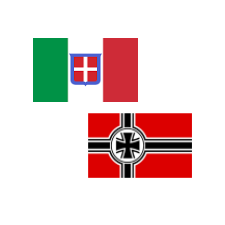
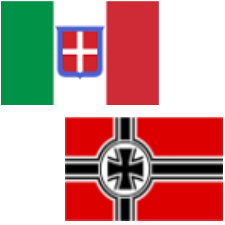
turn player view, admin view

diff --git a/src/views/adminReinforcementsView.js b/src/views/adminReinforcementsView.js
@@ -16,9 +16,25 @@ var AdminReinforcementsView = React.createClass({
     getInitialState() {
         return {
             die1: 1,
-            die2: 1
+            die2: 1,
+            x: 0,
+            y: 0,
+            width: 0,
+            height: 0,
+            viewHeight: 100
         };
     },
+    onLayout(e) {
+        if (/*this.state.width != e.nativeEvent.layout.width ||*/
+            this.state.height != e.nativeEvent.layout.height) {
+            this.setState({
+                x: e.nativeEvent.layout.x,
+                y: e.nativeEvent.layout.y,
+                width: e.nativeEvent.layout.width,
+                height: e.nativeEvent.layout.height
+            });
+        }
+    },            
     onDiceRoll(d) {
         this.resolve(d[0].value, d[1].value);
     },
@@ -31,28 +47,31 @@ var AdminReinforcementsView = React.createClass({
         this.props.setReinforcements(this.props.player, Reinforcements.find(this.props.turn, this.props.reinforcements[this.props.player], die1, die2));
     },
     render() {
-        let iconwidth = /*this.state.width || */96;
-        let iconheight = /*this.state.height || */88;    
+        let iconwidth = this.state.width;// || */96;
+        let iconheight = this.state.height;// || */88;    
         let player = this.props.reinforcements[this.props.player];
         let playerreinforcements = this.props[this.props.player];
         
         return (            
-            <View style={{flex: 1, paddingTop: 4}}>
+            <View style={{flex: 2, paddingTop: 4}}>
                 <Text style={{fontSize: Style.Font.medium(),fontWeight: 'bold',backgroundColor: 'silver', textAlign: 'left', paddingLeft:10}}>Variable Reinforcements</Text>
                 <View style={{flex: 1, flexDirection: 'row', alignItems: 'center', paddingTop: 4}}>
-                    <View style={{flex: 3, flexDirection: 'row', alignItems: 'center'}}>
-                        <View style={{flex: 2, justifyContent:'center', alignItems:'center'}}>
-                            <Image
-                                style={{width: iconwidth, height: iconheight, resizeMode: 'contain'}}
-                                source={Icons[player.icon.toLowerCase()]} />
-                        </View>
-                        <View style={{flex: 3, alignItems: 'center'}}>
-                            <Text style={{marginLeft: 10, fontSize: Style.Font.mediumlarge(), fontWeight: 'bold'}}>{playerreinforcements}</Text>
+                    <View style={{flex: 3, justifyContent:'flex-start', alignItems:'center'}} onLayout={this.onLayout}>
+                        <View style={{flex: 1, flexDirection: 'row', alignItems: 'center'}}>
+                            <View style={{flex: 2, justifyContent:'center', alignItems:'center'}}>
+                                <Image
+                                    style={{width: iconwidth, height: iconheight, resizeMode: 'contain'}}
+                                    source={Icons[player.icon.toLowerCase()]} />
+                            </View>
+                            <View style={{flex: 3, alignItems: 'center'}}>
+                                <Text style={{marginLeft: 10, fontSize: Style.Font.mediumlarge(), fontWeight: 'bold'}}>{playerreinforcements}</Text>
+                            </View>
                         </View>
                     </View>
                     <View style={{flex: 2, marginRight: 5}}>
                         <DiceRoll dice={this.dice} values={[this.state.die1,this.state.die2]}
                             onRoll={this.onDiceRoll} onDie={this.onDieChanged}/>
+                        <View style={{flex:1}} />
                     </View>
                 </View>                
             </View>

diff --git a/src/views/adminSupplyView.js b/src/views/adminSupplyView.js
@@ -16,9 +16,25 @@ var AdminSupplyView = React.createClass({
     getInitialState() {
         return {
             die1: 1,
-            die2: 1
+            die2: 1,
+            x: 0,
+            y: 0,
+            width: 0,
+            height: 0,
+            viewHeight: 100
         };
     },
+    onLayout(e) {
+        if (/*this.state.width != e.nativeEvent.layout.width ||*/
+            this.state.height != e.nativeEvent.layout.height) {
+            this.setState({
+                x: e.nativeEvent.layout.x,
+                y: e.nativeEvent.layout.y,
+                width: e.nativeEvent.layout.width,
+                height: e.nativeEvent.layout.height
+            });
+        }
+    },                
     onDiceRoll(d) {
         this.resolve(d[0].value, d[1].value);
     },
@@ -31,28 +47,31 @@ var AdminSupplyView = React.createClass({
         this.props.setSupply(this.props.player, Supply.find(this.props.turn, this.props.supply[this.props.player], die1, die2));
     },
     render() {
-        let iconwidth = /*this.state.width || */96;
-        let iconheight = /*this.state.height || */88;    
+        let iconwidth = this.state.width;// || */Style.Scaling.scale(96);
+        let iconheight = this.state.height;// || */Style.Scaling.scale(88);
         let player = this.props.supply[this.props.player];
         let playersupply = this.props[this.props.player];
         
         return (            
-            <View style={{flex: 1, paddingTop: 4}}>
+            <View style={{flex: 2, paddingTop: 4}}>
                 <Text style={{fontSize: Style.Font.medium(),fontWeight: 'bold',backgroundColor: 'silver', textAlign: 'left', paddingLeft:10}}>Supply</Text>                
                 <View style={{flex: 1, flexDirection: 'row', alignItems: 'center', paddingTop: 4}}>
-                    <View style={{flex: 3, flexDirection: 'row', alignItems: 'center'}}>
-                        <View style={{flex: 2, justifyContent:'center', alignItems:'center'}}>
-                            <Image
-                                style={{width: iconwidth, height: iconheight, resizeMode: 'contain'}}
-                                source={Icons[player.icon.toLowerCase()]} />
-                        </View>
-                        <View style={{flex: 3, alignItems: 'center'}}>
-                            <Text style={{marginLeft: 10, fontSize: Style.Font.mediumlarge(), fontWeight: 'bold'}}>{playersupply}</Text>
+                    <View style={{flex: 3, justifyContent:'flex-start', alignItems:'center'}} onLayout={this.onLayout}>
+                        <View style={{flex: 1, flexDirection: 'row', alignItems: 'center'}}>
+                            <View style={{flex: 2, justifyContent:'center', alignItems:'center'}}>
+                                <Image
+                                    style={{width: iconwidth, height: iconheight, resizeMode: 'contain'}}
+                                    source={Icons[player.icon.toLowerCase()]} />
+                            </View>
+                            <View style={{flex: 3, alignItems: 'center'}}>
+                                <Text style={{marginLeft: 10, fontSize: Style.Font.mediumlarge(), fontWeight: 'bold'}}>{playersupply}</Text>
+                            </View>
                         </View>
                     </View>
                     <View style={{flex: 2, marginRight: 5}}>
                         <DiceRoll dice={this.dice} values={[this.state.die1,this.state.die2]}
                             onRoll={this.onDiceRoll} onDie={this.onDieChanged}/>
+                        <View style={{flex:1}} />
                     </View>
                 </View>                
             </View>

diff --git a/src/views/adminInitiativeView.js b/src/views/adminInitiativeView.js
@@ -1,5 +1,5 @@
 import React from 'react';
-import { View, Text } from 'react-native';
+import { View, Text, Image, TouchableOpacity } from 'react-native';
 import { connect } from 'react-redux';
 import {Style,IconButton} from 'react-native-nub';
 import {DiceRoll} from 'react-native-dice';
@@ -27,7 +27,7 @@ var AdminInitiativeView = React.createClass({
         };
     },
     onLayout(e) {
-        if (this.state.width != e.nativeEvent.layout.width ||
+        if (/*this.state.width != e.nativeEvent.layout.width ||*/
             this.state.height != e.nativeEvent.layout.height) {
             this.setState({
                 x: e.nativeEvent.layout.x,
@@ -53,19 +53,22 @@ var AdminInitiativeView = React.createClass({
     },
     render() {
         let player = this.props.player ? this.props.player : {icon: 'tie'};
-        let iconwidth = /*this.state.width || */88;
-        let iconheight = /*this.state.height || */82;        
+        let iconwidth = this.state.width;// || */Style.Scaling.scale(88);
+        let iconheight = this.state.height;// || */Style.Scaling.scale(82);
         return (
-            <View style={{flex: 1, paddingTop: 4}}>
+            <View style={{flex: 2, paddingTop: 4}}>
                 <Text style={{fontSize: Style.Font.medium(),fontWeight: 'bold',backgroundColor: 'silver', textAlign: 'left', paddingLeft:10}}>Initiative</Text>
                 <View style={{flex: 1,flexDirection: 'row', paddingTop: 4}}>
-                    <View style={{flex: 3, justifyContent:'center', alignItems:'center'}}>
-                        <IconButton image={Icons[player.icon.toLowerCase()]} width={iconwidth} height={iconheight} resizeMode={'contain'} onPress={this.onNextPlayer}/>
+                    <View style={{flex: 3, justifyContent:'flex-start', alignItems:'center'}} onLayout={this.onLayout}>
+                        <TouchableOpacity onPress={this.onNextPlayer}>
+                            <Image style={{width: iconwidth,height: iconheight,resizeMode: 'contain'}} source={Icons[player.icon.toLowerCase()]} />
+                        </TouchableOpacity>                        
                     </View>
                     <View style={{flex: 2, marginRight: 5}}>
                         <DiceRoll dice={this.dice} values={[this.state.die1,this.state.die2]} onRoll={this.onDiceRoll} onDie={this.onDieChanged}/>
+                        <View style={{flex:1}} />
                     </View>
-                </View>
+                </View>                
             </View>
         );        
     }

diff --git a/src/views/turnView.js b/src/views/turnView.js
@@ -51,17 +51,17 @@ var TurnView = React.createClass({
         let iconheight = this.state.height || 88;
         
         return (
-          <View style={{flexDirection: 'row', height: Style.Scaling.scale(75), marginLeft: 5, marginRight: 5}}>
-            <View style={{flex: 1}}>
-                <Image style={{width: iconwidth,height: iconheight,resizeMode: 'contain'}} source={this.props.logo}/>
-            </View>
-            <View style={{flex: 4}}>
-                <SpinSelect value={this.props.turn} onPrev={this.onPrevTurn} onNext={this.onNextTurn} />
-                <SpinSelect value={this.props.phase} onPrev={this.onPrevPhase} onNext={this.onNextPhase} />
-            </View>
-            <View style={{flex: 1}}>
-                <TurnPlayerView />
-            </View>
+            <View style={{flexDirection: 'row', alignItems:'center', height: Style.Scaling.scale(75), marginLeft: 5, marginRight: 5}}>
+                <View style={{flex: 1, justifyContent:'center', marginRight: 2}} onLayout={this.onLayout}>
+                    <Image style={{width: iconwidth,height: iconheight,resizeMode: 'contain'}} source={this.props.logo}/>
+                </View>
+                <View style={{flex: 4}}>
+                    <SpinSelect value={this.props.turn} onPrev={this.onPrevTurn} onNext={this.onNextTurn} />
+                    <SpinSelect value={this.props.phase} onPrev={this.onPrevPhase} onNext={this.onNextPhase} />
+                </View>
+                <View style={{flex: 1}}>
+                    <TurnPlayerView />
+                </View>
           </View>
         );
     }

diff --git a/src/views/adminWeatherView.js b/src/views/adminWeatherView.js
@@ -53,7 +53,7 @@ var AdminWeatherView = React.createClass({
         }
         
         return (            
-            <View style={{flex: 1, paddingTop: 4}}>
+            <View style={{flex: 1.1, paddingTop: 2}}>
                 <Text style={{fontSize: Style.Font.medium(),fontWeight: 'bold',backgroundColor: 'silver', textAlign: 'left', paddingLeft:10}}>Weather</Text>
                 <View style={{flex: 1, flexDirection: 'row', paddingTop: 4}}>
                     <View style={{flex: 3, justifyContent:'center', alignItems:'center'}}>
@@ -61,7 +61,7 @@ var AdminWeatherView = React.createClass({
                     </View>                
                     <View style={{flex: 2}}>
                         <DiceRoll dice={dice} values={[this.state.die1,this.state.die2,this.state.die3,this.state.die4]}
-                            onRoll={this.onDiceRoll} onDie={this.onDieChanged}/>
+                            onRoll={this.onDiceRoll} onDie={this.onDieChanged}/>                        
                     </View>                
                 </View>
             </View>

diff --git a/src/views/adminView.js b/src/views/adminView.js
@@ -24,8 +24,7 @@ var AdminView = React.createClass({
                 <AdminWeatherView />
                 <AdminInitiativeView />
                 <AdminSupplyView />
-                <AdminReinforcementsView />
-                <View style={{flex: 2}}/>
+                <AdminReinforcementsView />                
             </View>
 
             /*
